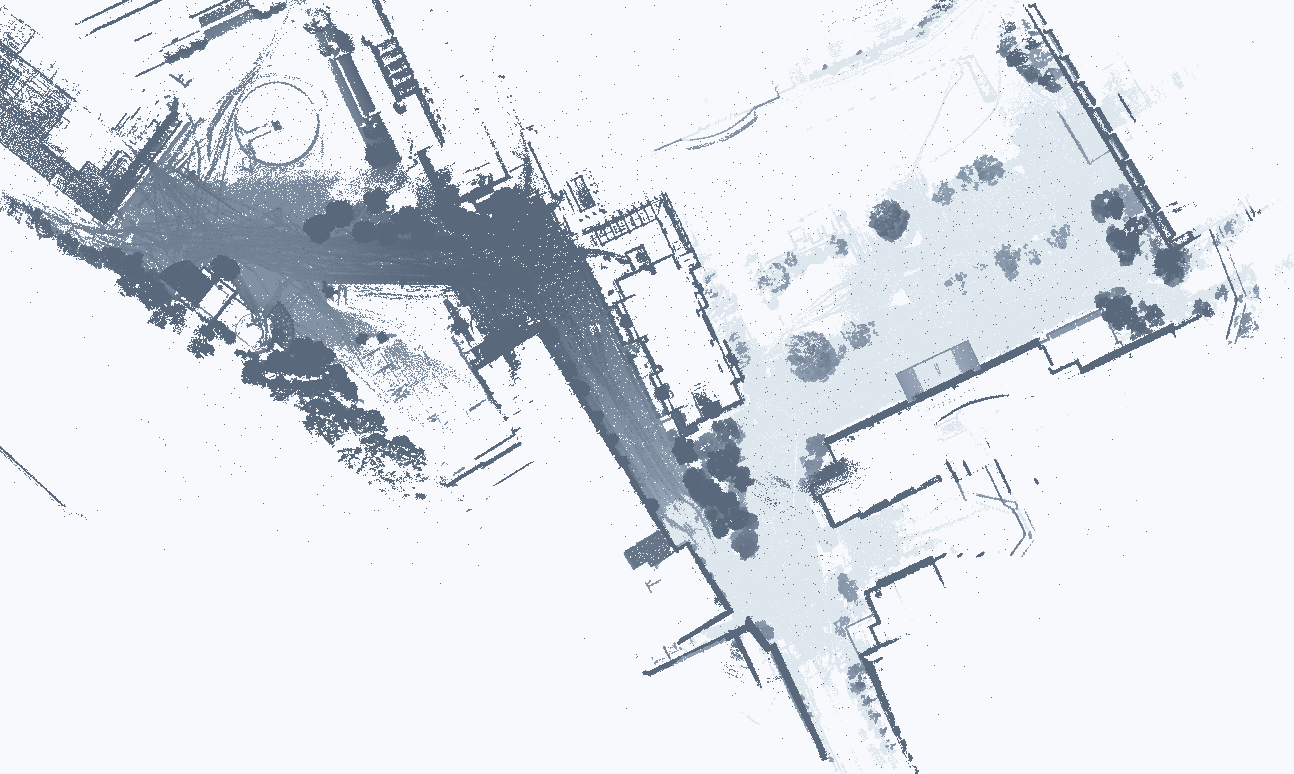
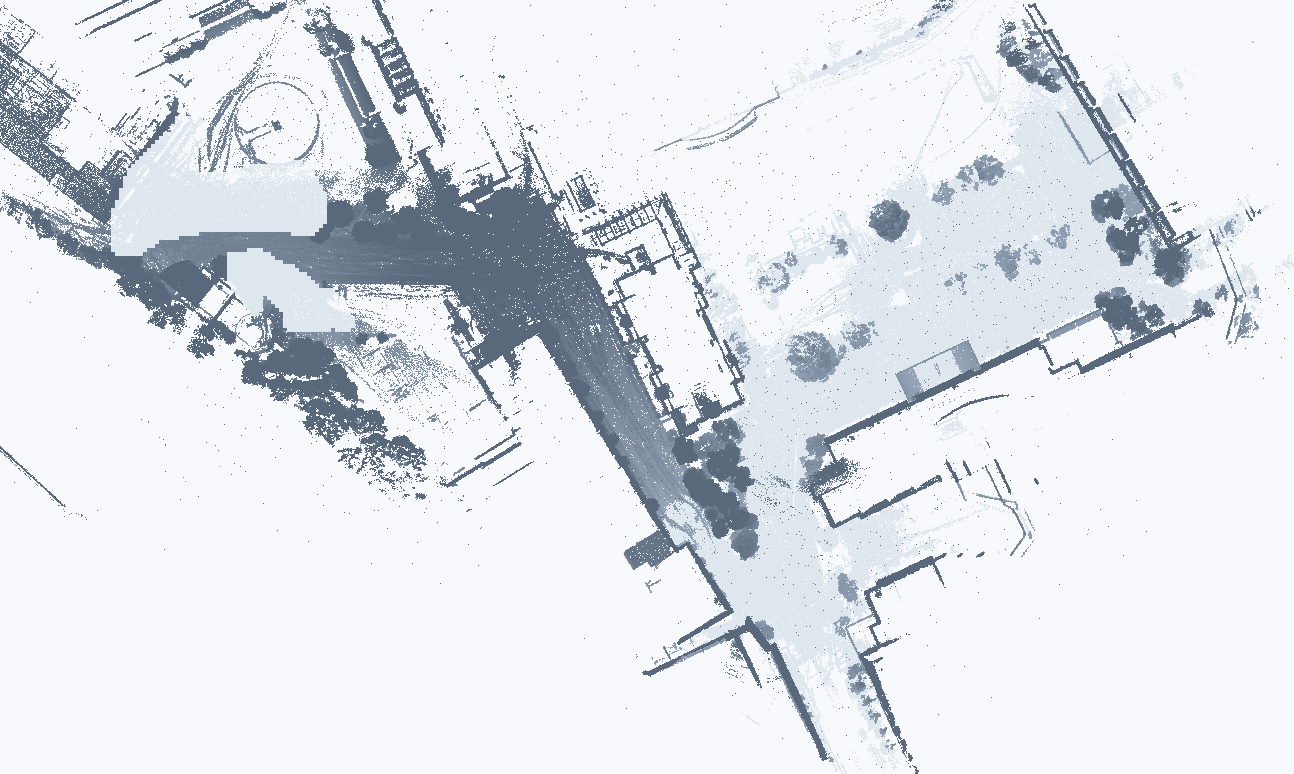
feat: level the marked clutter, and carry the landmark names
Two things the point cloud could not know, both supplied by someone who
has walked the place.

Near the start the cloud is dense with what the height test reads as
walls: the chair sat there while the map was built, so plaza furniture,
bikes and passers-by were all surveyed from close range and came out as
structure. It is level ground. --flatten takes a list of map-frame cells
and shows them as ground whatever their height, which turns the start
area from a dark mass back into the open plaza it is.

And the buildings had shapes but no names. 한양대 2번 출구 (애지문),
국제관, 역사관, 박물관, 신소재공학관, 공업센터본관 -- placed by an operator
marking them on the rendered map, so they sit where someone who knows the
campus put them rather than where the geometry might suggest.

Both were recovered from a PowerPoint annotation of the app's own map: the
band polygon in the screenshot was fitted against the band computed from
the route, which pins the screenshot to the map frame to within a metre
(scales agreed to 0.6%), and the marks were carried through that.

Changed region(s): [[0.0618, 0.155, 0.2782, 0.4341]]

diff --git a/tools/render_map_backdrop.py b/tools/render_map_backdrop.py
@@ -64,7 +64,38 @@ def read_pcd_xyz(path, max_points=None):
     return xyz
 
 
-def render(xyz, resolution, bounds, ground_pct, wall_m):
+def load_flatten(path, resolution, bounds):
+    """Cells an operator has marked as level ground despite the point cloud.
+
+    Near the start the cloud is dense with clutter that is not structure -- the
+    chair sat there while the map was built, so parked bikes, people and the
+    plaza furniture all got surveyed from close range and read as walls. The
+    height test cannot tell those from a building; a person who knows the place
+    can. This is that knowledge, as a 1 m cell list in the map frame.
+    """
+    if not path:
+        return None
+    with open(os.path.expanduser(path)) as handle:
+        blob = json.load(handle)
+    cell = float(blob.get("cell_m", 1.0))
+    min_x, min_y, max_x, max_y = bounds
+    width = int(np.ceil((max_x - min_x) / resolution))
+    height = int(np.ceil((max_y - min_y) / resolution))
+    mask = np.zeros((height, width), dtype=bool)
+    span = max(1, int(np.ceil(cell / resolution)))
+    for cx, cy in blob["cells"]:
+        x0 = cx * cell
+        y0 = cy * cell
+        col = int((x0 - min_x) / resolution)
+        row = int((max_y - y0) / resolution) - span
+        if col < -span or row < -span or col >= width or row >= height:
+            continue
+        mask[max(row, 0):row + span, max(col, 0):col + span] = True
+    print("flatten mask: %d cells -> %d pixels" % (len(blob["cells"]), int(mask.sum())))
+    return mask
+
+
+def render(xyz, resolution, bounds, ground_pct, wall_m, flatten=None):
     min_x, min_y, max_x, max_y = bounds
     width = int(np.ceil((max_x - min_x) / resolution))
     height = int(np.ceil((max_y - min_y) / resolution))
@@ -98,6 +129,12 @@ def render(xyz, resolution, bounds, ground_pct, wall_m):
     flat_ground = seen & (relief < wall_m)
     image[flat_ground] = (223, 231, 238)            # ground
     structure = seen & (relief >= wall_m)
+    if flatten is not None:
+        # Marked level: show it as ground the chair could be on, whatever the
+        # height channel says about it.
+        structure &= ~flatten
+        flat_ground |= flatten & seen
+        image[flat_ground] = (223, 231, 238)
     tall = np.clip((relief - wall_m) / 6.0, 0.0, 1.0)
     image[structure] = np.stack([
         (150 - 60 * tall[structure]),
@@ -118,6 +155,7 @@ def main():
     parser.add_argument("--wall-m", type=float, default=1.2,
                         help="height above ground at which a cell counts as structure")
     parser.add_argument("--max-points", type=int, default=0)
+    parser.add_argument("--flatten", help="JSON of map-frame cells to force to ground")
     args = parser.parse_args()
 
     xyz = read_pcd_xyz(os.path.expanduser(args.pcd), args.max_points or None)
@@ -136,8 +174,9 @@ def main():
     else:
         bounds = (xyz[:, 0].min(), xyz[:, 1].min(), xyz[:, 0].max(), xyz[:, 1].max())
 
+    flatten = load_flatten(args.flatten, args.resolution, bounds)
     image, ground, width, height = render(
-        xyz, args.resolution, bounds, args.ground_percentile, args.wall_m)
+        xyz, args.resolution, bounds, args.ground_percentile, args.wall_m, flatten)
     out_png = args.out + ".png"
     image.save(out_png, optimize=True)
     meta = {
@@ -151,6 +190,7 @@ def main():
         "height": height,
         "ground_z": ground,
         "wall_threshold_m": args.wall_m,
+        "flatten": args.flatten or None,
     }
     with open(args.out + ".json", "w") as handle:
         json.dump(meta, handle, indent=2)
